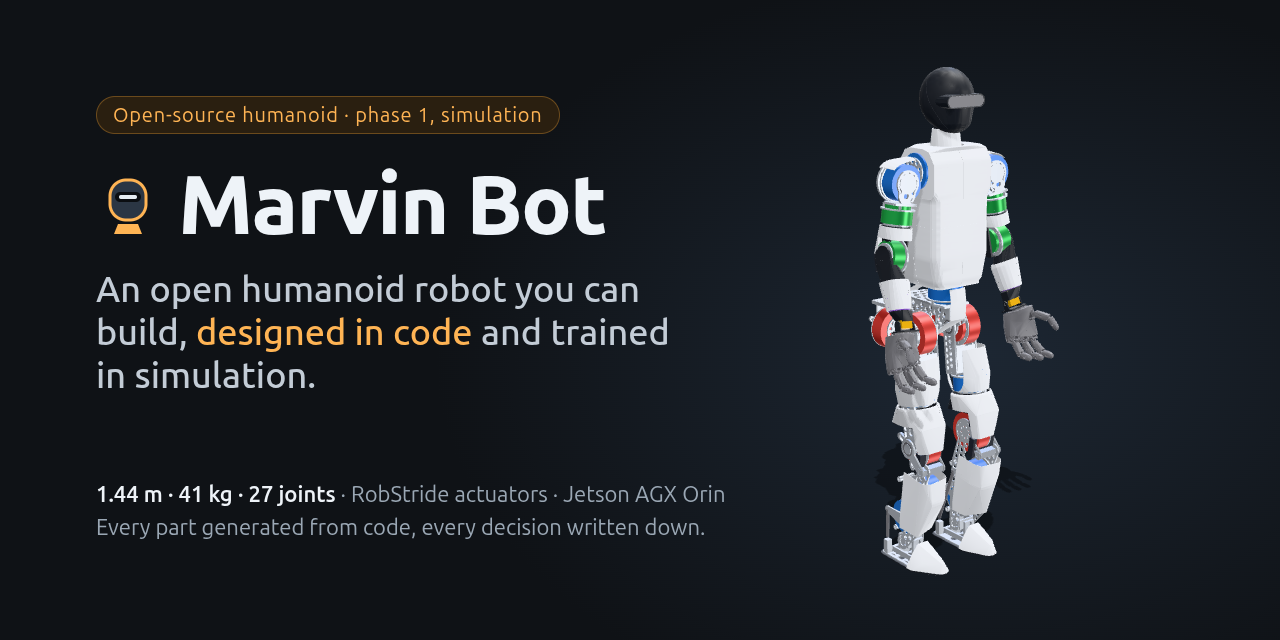
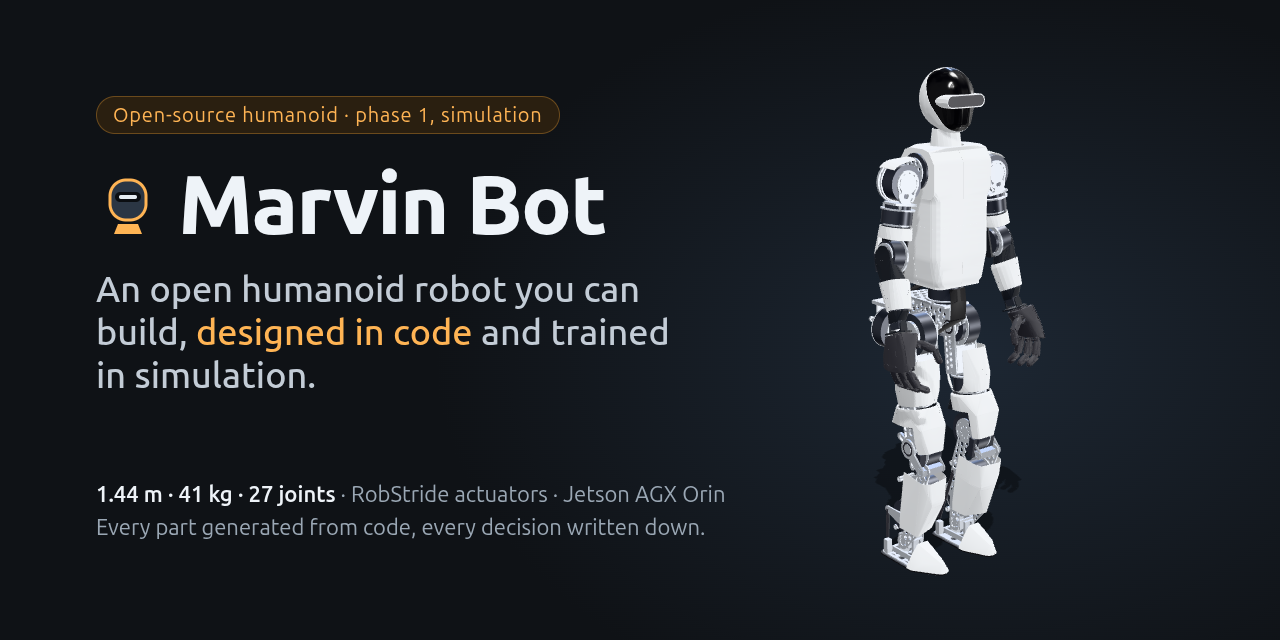
Docs site: finish colours and palms-in pose for the 3-D model
The viewers drew every part in its URDF colour, which codes each motor model
by colour. They now use the finish palette of tools/render_robot.py (the
script behind docs/media/robot.webp): machined aluminium, graphite printed
parts, dark motors and hands, light covers and a glossy visor. The motor-model
colours remain in the 3-D page's "by layer" and X-ray motor views and the
home page's X-ray motors look.

The arms rest with the palms turned in towards the thighs (wrist yaw 90°), as
in that render. The social card is re-rendered with both.

diff --git a/site/src/guide/00-3d-model/viewer.js b/site/src/guide/00-3d-model/viewer.js
@@ -1,6 +1,6 @@
 import * as THREE from 'three';
 import { OrbitControls } from 'three/addons/controls/OrbitControls.js';
-import { decodeBin, partGeometry as buildGeometry, partMaterial, setupLighting } from '../../scripts/marvin-render.js';
+import { codeColour, decodeBin, partGeometry as buildGeometry, partMaterial, setupLighting } from '../../scripts/marvin-render.js';
 
 const $ = id => document.getElementById(id);
 window.__m3dStarted = true;   // the 3-D library loaded; from here on, errors are reported by this script
@@ -80,7 +80,7 @@ for (const p of M.parts) {
   const mat = partMaterial(p);
   const m = new THREE.Mesh(partGeometry(p), mat); m.castShadow = m.receiveShadow = true;
   m.position.set(...p.xyz); m.rotation.set(p.rpy[0], p.rpy[1], p.rpy[2], 'ZYX');
-  m.userData.p = p; m.userData.real = mat.color.clone(); m.userData.home = m.position.clone();
+  m.userData.p = p; m.userData.real = mat.color.clone(); m.userData.code = codeColour(p); m.userData.home = m.position.clone();
   linkG[p.link].add(m); meshes.push(m);
 }
 // motors per joint (a RobStride motor is drawn as a body and a driver cap; RS00 and servos as one piece)
@@ -183,7 +183,8 @@ function keyed(t, keys) {   // keys: [[t, value]...], smooth between
   return keys[keys.length - 1][1];
 }
 const arms = (pitch, roll, yaw, elbow, side) => ({[`${side}_shoulder_pitch`]:pitch, [`${side}_shoulder_roll`]:roll, [`${side}_shoulder_yaw`]:yaw, [`${side}_elbow`]:elbow});
-const restArms = () => ({...arms(0, STANCE.shoulder_roll, 0, STANCE.elbow, 'left'), ...arms(0, STANCE.shoulder_roll, 0, STANCE.elbow, 'right')});
+// arms relaxed, palms turned in towards the thighs (wrist yaw 90°, as in tools/render_robot.py)
+const restArms = () => ({...arms(0, STANCE.shoulder_roll, 0, STANCE.elbow, 'left'), ...arms(0, STANCE.shoulder_roll, 0, STANCE.elbow, 'right'), left_wrist_yaw:90, right_wrist_yaw:90});
 const STAIR = {x:0.30, h:0.18};
 const SKILLS = {
   stand:{label:'Stand', T:4, about:'The default stance the walking policies start from: knees bent 15°, feet under the hips.', fn:t => ({
@@ -214,7 +215,7 @@ const SKILLS = {
   }},
   wave:{label:'Wave', T:6, about:'Right arm raised out to the side, the forearm swinging at the elbow.', fn:t => {
     const up = seg(t, 0, 1) * (1 - seg(t, 5, 6)), w = 30 * Math.sin(2 * Math.PI * 1.4 * t) * up;
-    return {pel:[0, 0, PELVIS_Z, 0, 0, 0], q:{...restArms(), ...arms(20 * up, 8 + 95 * up, -20 * up, 20 + 70 * up + w, 'right'), right_wrist_yaw:-40 * up, neck_yaw:-20 * up, waist_yaw:-8 * up}};
+    return {pel:[0, 0, PELVIS_Z, 0, 0, 0], q:{...restArms(), ...arms(20 * up, 8 + 95 * up, -20 * up, 20 + 70 * up + w, 'right'), right_wrist_yaw:90 - 130 * up, neck_yaw:-20 * up, waist_yaw:-8 * up}};
   }},
   clap:{label:'Clap', T:4, about:'Both arms forward with the shoulders rolled inwards below 0°, which the coupled limit allows only with the arm forward.', fn:t => {
     const up = seg(t, 0, 0.8) * (1 - seg(t, 3.3, 4)), c = (1 - Math.cos(2 * Math.PI * 2.5 * t)) / 2 * up;
@@ -288,7 +289,7 @@ function applyLook() {
     m.visible = state.tab === 'assembly' ? moduleVisible(p) : state.show[p.cat];
     if (state.tab === 'skills' && p.cat === 'cover') m.visible = state.show.cover;
     let col = m.userData.real.clone();
-    if (state.colour === 'cat') col = new THREE.Color(p.cat === 'actuator' ? m.userData.real : CATS[p.cat].col);
+    if (state.colour === 'cat') col = new THREE.Color(p.cat === 'actuator' ? m.userData.code : CATS[p.cat].col);
     if (state.colour === 'module') col = new THREE.Color(MODS[p.module].col);
     let op = 1, emis = 0x000000;
     const focus = state.focus.length ? state.focus.includes(p.cat) : false;
@@ -386,7 +387,7 @@ function renderCats() {
 const VIEWS = {
   bare:{show:{cover:false}, focus:[], xray:0, colour:'real'},
   shells:{show:{cover:true}, focus:[], xray:0, colour:'real'},
-  xact:{show:{cover:false}, focus:['actuator'], xray:0.85, colour:'real'},
+  xact:{show:{cover:false}, focus:['actuator'], xray:0.85, colour:'cat'},
   xelec:{show:{cover:false}, focus:['electronics', 'sensors', 'compute', 'battery'], xray:0.85, colour:'cat'},
   made:{show:{cover:false}, focus:[], xray:0, colour:'cat'},
   buy:{show:{cnc:false, service:false, print:false, cover:false, padding:false}, focus:[], xray:0, colour:'cat'},

diff --git a/site/src/scripts/marvin-viewer.js b/site/src/scripts/marvin-viewer.js
@@ -3,7 +3,7 @@
 // animation. Needs window.MARVIN_MODEL, written by site/scripts/build_model.py.
 import * as THREE from 'three';
 import { OrbitControls } from 'three/addons/controls/OrbitControls.js';
-import { decodeBin, partGeometry, partMaterial, setupLighting, shadowFloor } from './marvin-render.js';
+import { codeColour, decodeBin, partGeometry, partMaterial, setupLighting, shadowFloor } from './marvin-render.js';
 
 export function mountMarvin(host, opts = {}) {
   const M = window.MARVIN_MODEL;
@@ -35,10 +35,10 @@ export function mountMarvin(host, opts = {}) {
   for (const p of M.parts) {
     const g = partGeometry(p, AB), mat = partMaterial(p);
     const m = new THREE.Mesh(g, mat); m.castShadow = m.receiveShadow = true; m.position.set(...p.xyz); m.rotation.set(p.rpy[0], p.rpy[1], p.rpy[2], 'ZYX');
-    m.userData = {p, real:mat.color.clone()}; linkG[p.link].add(m); meshes.push(m);
+    m.userData = {p, real:mat.color.clone(), code:codeColour(p)}; linkG[p.link].add(m); meshes.push(m);
   }
   const ST = M.stance, stance = {};
-  for (const s of ['left', 'right']) Object.assign(stance, {[`${s}_hip_pitch`]:ST.hip_pitch, [`${s}_knee`]:ST.knee, [`${s}_ankle_pitch`]:ST.ankle_pitch, [`${s}_shoulder_roll`]:ST.shoulder_roll, [`${s}_elbow`]:ST.elbow});
+  for (const s of ['left', 'right']) Object.assign(stance, {[`${s}_hip_pitch`]:ST.hip_pitch, [`${s}_knee`]:ST.knee, [`${s}_ankle_pitch`]:ST.ankle_pitch, [`${s}_shoulder_roll`]:ST.shoulder_roll, [`${s}_elbow`]:ST.elbow, [`${s}_wrist_yaw`]:90});  // palms in, as in tools/render_robot.py
   const pose = d => { for (const n in J) setDeg(n, (d[n] ?? stance[n] ?? 0)); };
   pose({}); base.position.set(0, 0, M.pelvis_height); scene.updateMatrixWorld(true);
   const sole = new THREE.Vector3(0.03, 0, -0.06).applyMatrix4(linkG.left_foot_link.matrixWorld).z; base.position.z -= sole;
@@ -50,7 +50,7 @@ export function mountMarvin(host, opts = {}) {
       const p = m.userData.p, mat = m.material;
       m.visible = p.cat !== 'cover' || look === 'shells'; m.castShadow = !(XR[look] && !XR[look].includes(p.cat));
       const focus = XR[look] && XR[look].includes(p.cat), fade = XR[look] && !focus;
-      mat.color.copy(m.userData.real); mat.opacity = fade ? 0.08 : 1; mat.depthWrite = !fade;
+      mat.color.copy(focus && look === 'motors' ? m.userData.code : m.userData.real); mat.opacity = fade ? 0.08 : 1; mat.depthWrite = !fade;
       mat.emissive.setHex(focus ? 0x2a1d05 : 0);
     }
   }

diff --git a/site/src/scripts/marvin-render.js b/site/src/scripts/marvin-render.js
@@ -28,14 +28,40 @@ export function partGeometry(p, AB) {
   return toCreasedNormals(g, CREASE);
 }
 
+// Finish colours: what the built robot looks like, the same palette as tools/render_robot.py (which
+// renders docs/media/robot.webp): machined aluminium, graphite printed parts, dark motors, light
+// covers and a glossy dark visor. The URDF's own colours instead code each motor model by colour
+// (codeColour), which the 3-D page uses for its X-ray and "by layer" views.
+const FINISH = {
+  alu: [0.78, 0.80, 0.83], graphite: [0.16, 0.17, 0.19], motor: [0.30, 0.31, 0.34], cover: [0.92, 0.93, 0.94],
+  gloss: [0.05, 0.05, 0.06], dark: [0.09, 0.09, 0.10], bought: [0.25, 0.25, 0.27], tpu: [0.10, 0.10, 0.11], box: [0.22, 0.23, 0.26],
+};
+function finishOf(p) {
+  if (p.kind === 'cyl' || p.cat === 'actuator') return 'motor';
+  if (p.kind === 'box') return 'box';
+  const n = p.name || '';
+  if (n === 'head_visor') return 'gloss';
+  if (n === 'head_shell' || n === 'neck_cover' || n === 'head_camera_frame') return 'cover';
+  if (n === 'pelvis_cover' || n.includes('glute')) return 'dark';
+  if (p.process === 'cover') return 'cover';
+  if (p.process === 'cnc' || p.process === 'service') return 'alu';
+  if (p.material === 'tpu') return 'tpu';
+  if (p.process === 'bought') return 'bought';
+  return 'graphite';
+}
+const srgb = (c) => new THREE.Color().setRGB(c[0], c[1], c[2], THREE.SRGBColorSpace);
+
+// the URDF colour (sRGB values, as a colour picker gives them): each motor model has its own
+export const codeColour = (p) => srgb(p.rgba);
+
 export function partMaterial(p) {
-  const metal = /al60|al70|steel/i.test(p.material || '') || p.cat === 'actuator';
+  const f = finishOf(p);
+  const metal = f === 'alu' || f === 'motor';
   return new THREE.MeshStandardMaterial({
-    // URDF colours are sRGB values, as a colour picker gives them
-    color: new THREE.Color().setRGB(p.rgba[0], p.rgba[1], p.rgba[2], THREE.SRGBColorSpace),
-    metalness: metal ? 0.6 : 0.0,
-    roughness: metal ? 0.38 : 0.55,
-    envMapIntensity: metal ? 0.8 : 0.25,
+    color: srgb(FINISH[f]),
+    metalness: metal ? 0.65 : 0.0,
+    roughness: f === 'gloss' ? 0.15 : metal ? 0.35 : f === 'cover' ? 0.45 : 0.6,
+    envMapIntensity: metal || f === 'gloss' ? 0.9 : 0.3,
     transparent: true,
   });
 }

diff --git a/site/src/guide/00-3d-model/widget-1.html b/site/src/guide/00-3d-model/widget-1.html
@@ -14,7 +14,7 @@
 <div id="cats"></div>
 <div class="ctl"><label>X-ray strength <output id="o_xray"></output></label><input id="xray" max="1" min="0" step="0.05" type="range" value="0"/>
 <div class="hint">0 = everything solid. Higher values fade every layer except the ones whose names you clicked (highlighted in amber), so you can see inside.</div></div>
-<div class="ctl"><label>Colours</label><select id="colour"><option value="real">Real colours</option><option value="cat">By layer</option><option value="module">By module (how it comes apart)</option></select></div>
+<div class="ctl"><label>Colours</label><select id="colour"><option value="real">Finish colours (as built)</option><option value="cat">By layer (motors by model)</option><option value="module">By module (how it comes apart)</option></select></div>
 <div class="ctl"><label>Exploded view <output id="o_explode"></output></label><input id="explode" max="1" min="0" step="0.02" type="range" value="0"/>
 <div class="hint">Pulls every joint apart along its own offset, so you can see which body each part rides on.</div></div>
 <div class="ctl"><label><span><input id="axes" type="checkbox"/> Show joint axes</span></label>
